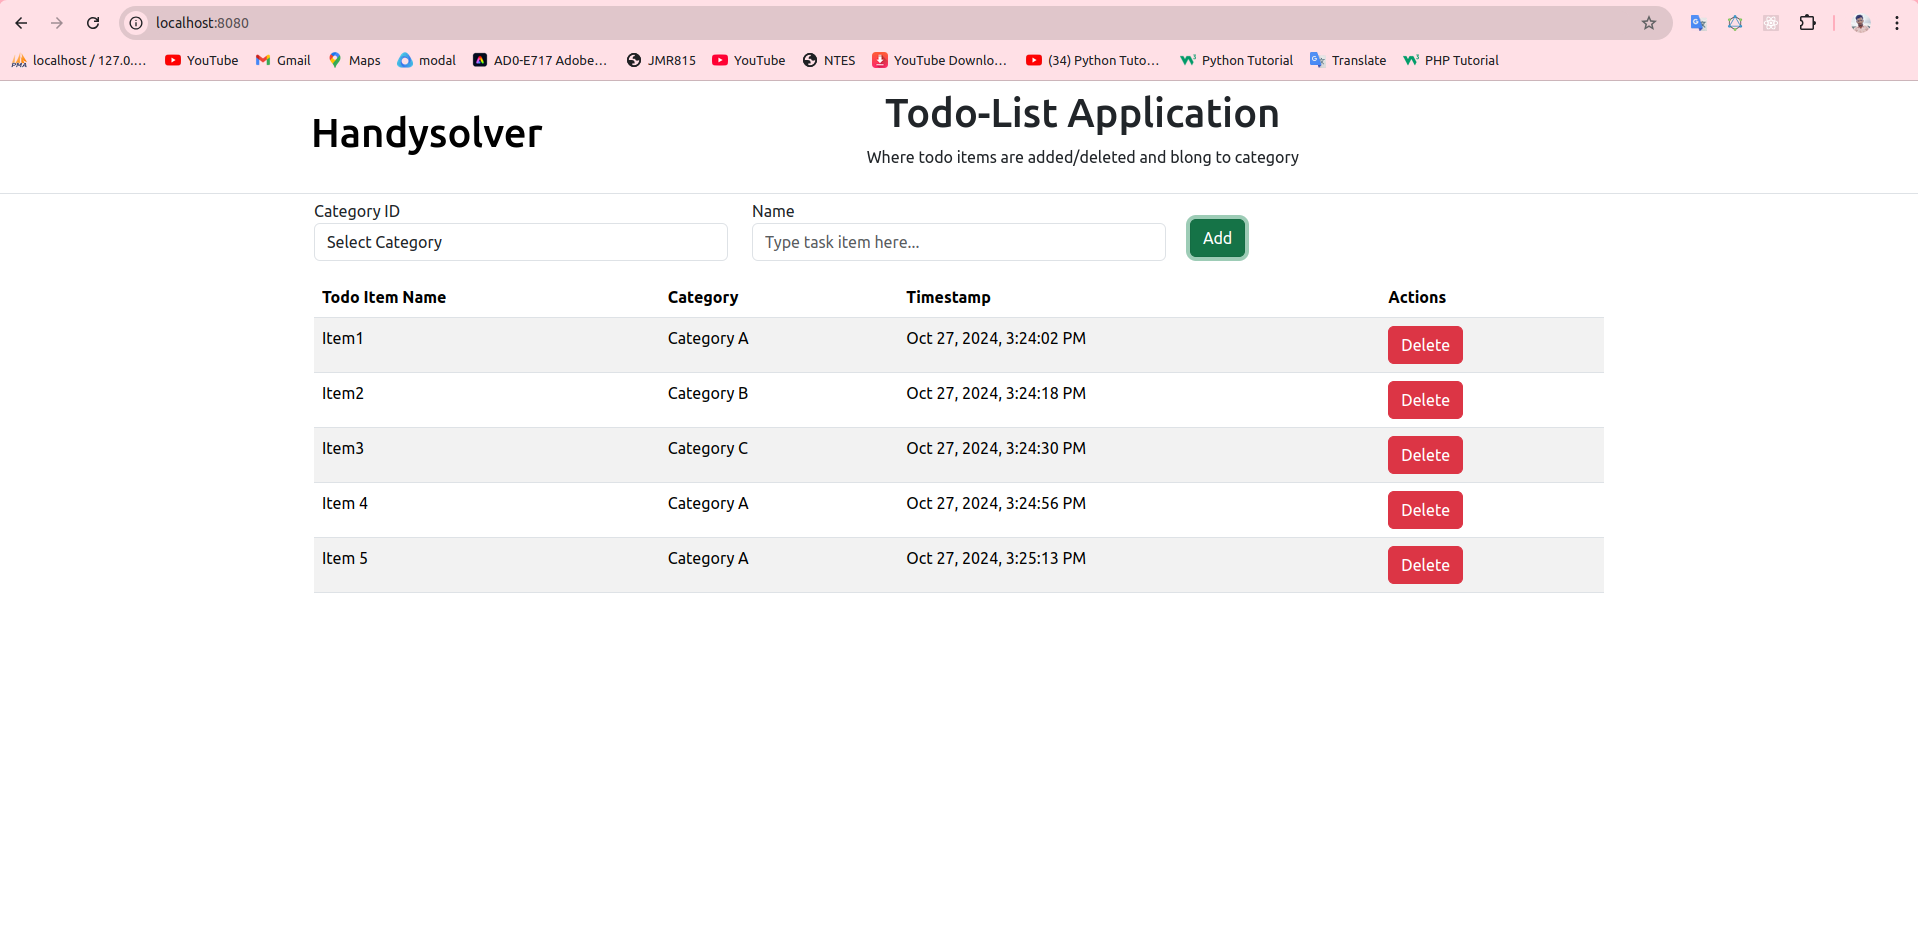
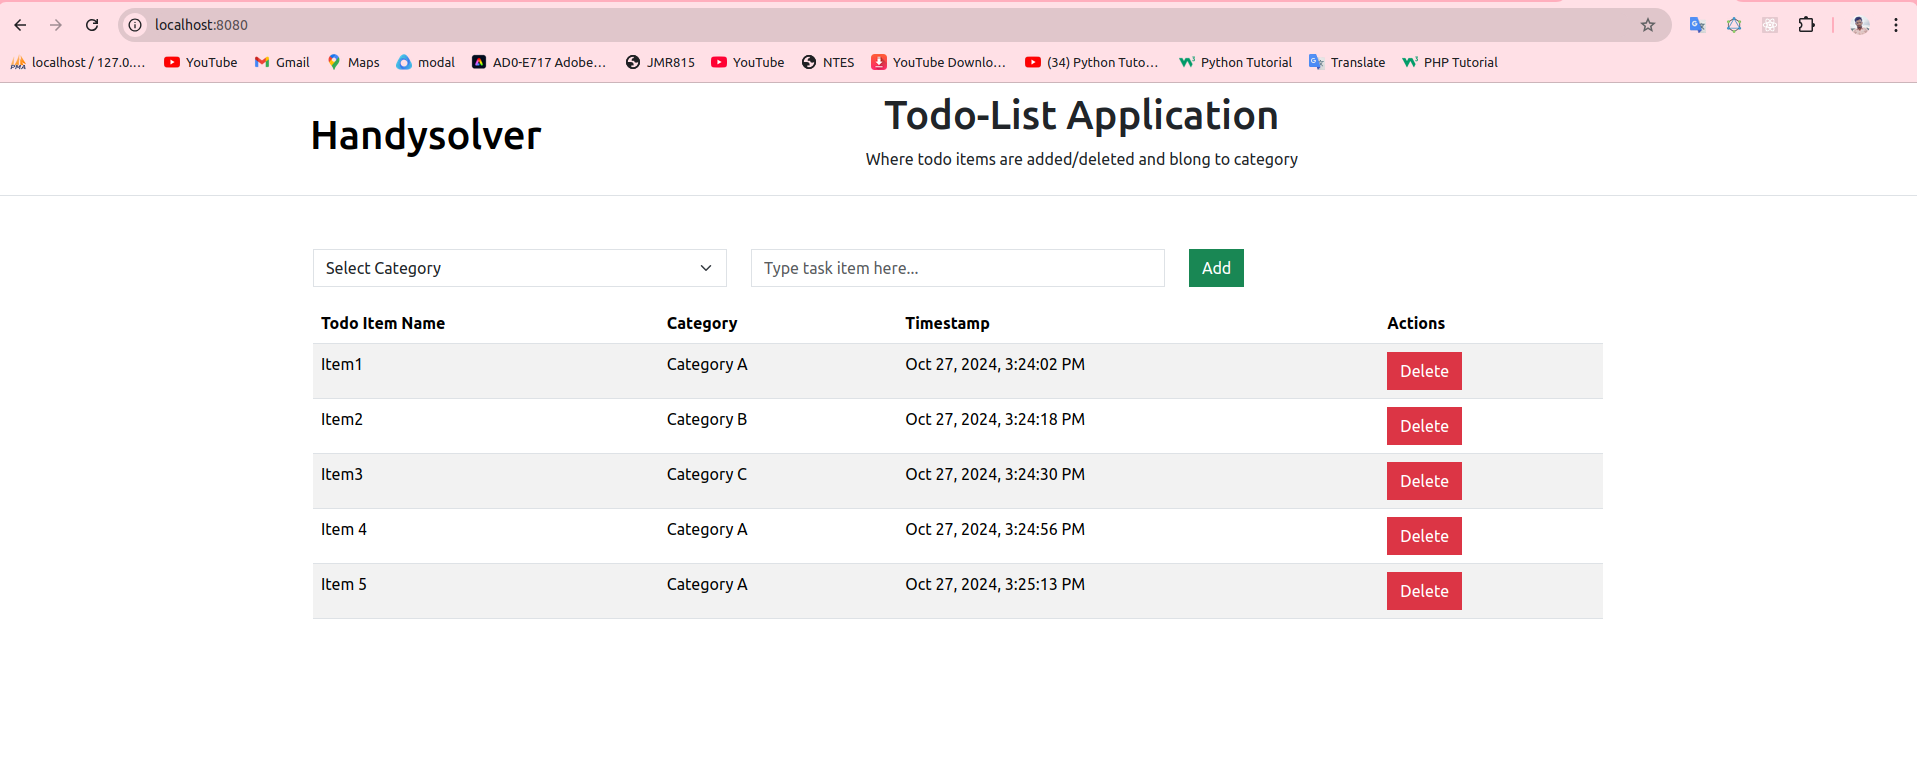
update screen shots and ui

diff --git a/views/todo/index.php b/views/todo/index.php
@@ -10,13 +10,14 @@ use yii\widgets\ActiveForm;
     <?php $form = ActiveForm::begin(['id' => 'todo-form']); ?>
 
     <div class="row  items-center">
-        <div class="col-4"> <?= $form->field($model, 'category_id')->dropDownList(
+        <div class="col-4"> <?= $form->field($model, 'category_id')->label(false)->dropDownList(
                                 \yii\helpers\ArrayHelper::map($categories, 'id', 'name'),
-                                ['prompt' => 'Select Category']
+                                ['prompt' => 'Select Category', 'class' => 'form-select rounded-0']
                             ) ?></div>
-        <div class="col-4"> <?= $form->field($model, 'name')->textInput(['placeholder' => 'Type task item here...']) ?>
+        <div class="col-4"> <?= $form->field($model, 'name')->label(false)->textInput(['placeholder' => 'Type task item here...', 'class' => 'form-control rounded-0']) ?>
         </div>
-        <div class="col-4 d-flex align-items-center"> <?= Html::button('Add', ['class' => 'btn btn-success', 'id' => 'add-todo']) ?>
+        <div class="col-4 d-flex align-items-center">
+            <div class="form-group"> <?= Html::button('Add', ['class' => 'btn btn-success rounded-0', 'id' => 'add-todo']) ?></div>
         </div>
     </div>
 

diff --git a/views/layouts/main.php b/views/layouts/main.php
@@ -34,7 +34,7 @@ $this->registerLinkTag(['rel' => 'icon', 'type' => 'image/x-icon', 'href' => Yii
     NavBar::begin([
         'brandLabel' => '<h1>Handysolver </h1>',
         'brandUrl' => Yii::$app->homeUrl,
-        'options' => ['class' => 'navbar-expand-md  fixed-top border-bottom']
+        'options' => ['class' => 'navbar-expand-md bg-white fixed-top border-bottom']
     ]);
 
     ?>
@@ -66,7 +66,7 @@ $this->registerLinkTag(['rel' => 'icon', 'type' => 'image/x-icon', 'href' => Yii
 </header>
 
 <main id="main" class="flex-shrink-0 mt-5" role="main">
-    <div class="container">
+    <div class="container mt-5">
         <?php if (!empty($this->params['breadcrumbs'])): ?>
             <?= Breadcrumbs::widget(['links' => $this->params['breadcrumbs']]) ?>
         <?php endif ?>

diff --git a/views/todo/todo_list.php b/views/todo/todo_list.php
@@ -1,8 +1,7 @@
 
 <?php
 use yii\helpers\Html;
-use yii\helpers\Url;
-use yii\widgets\ActiveForm;
+
 ?>
 <table class="table table-striped">
     <thead>
@@ -21,7 +20,7 @@ use yii\widgets\ActiveForm;
                 <td><?= Yii::$app->formatter->asDatetime($todo->timestamp) ?></td>
                 <td>
                     <?= Html::button('Delete', [
-                        'class' => 'btn btn-danger',
+                        'class' => 'btn btn-danger rounded-0',
                         'onclick' => "deleteTodo($todo->id)"
                     ]) ?>
                 </td>

diff --git a/models/Todo.php b/models/Todo.php
@@ -30,7 +30,7 @@ class Todo extends \yii\db\ActiveRecord
     public function rules()
     {
         return [
-            [['name', 'category_id'], 'required'],
+            // [['name', 'category_id'], 'required'],
             [['category_id'], 'integer'],
             [['timestamp'], 'safe'],
             [['name'], 'string', 'max' => 255],

diff --git a/models/Category.php b/models/Category.php
@@ -28,7 +28,7 @@ class Category extends \yii\db\ActiveRecord
     public function rules()
     {
         return [
-            [['name'], 'required'],
+            
             [['name'], 'string', 'max' => 255],
         ];
     }
